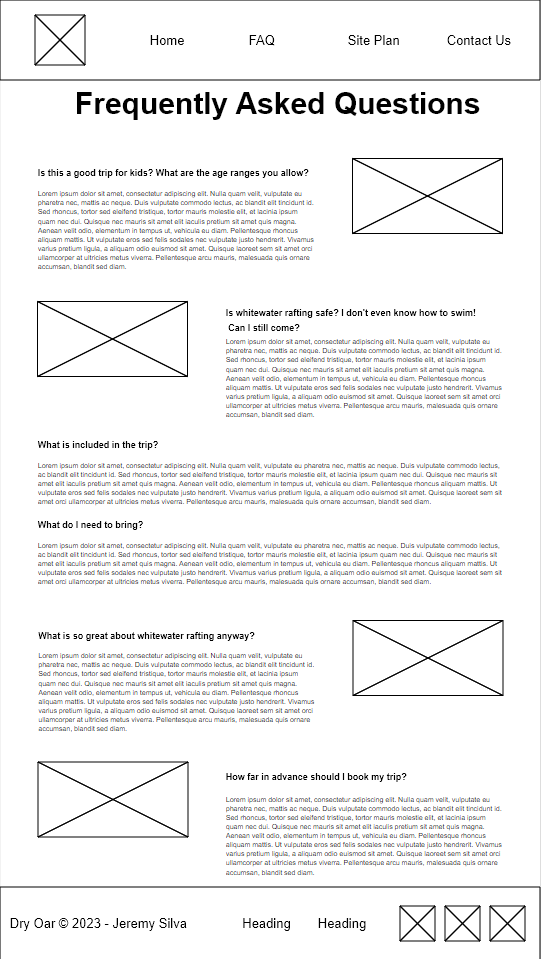
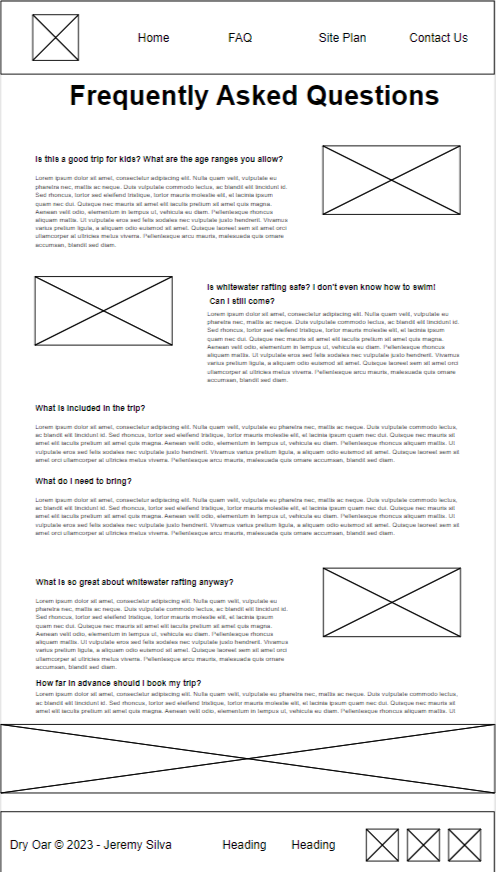
faq page added

diff --git a/wwr/faq.html b/wwr/faq.html
@@ -1,0 +1,94 @@
+<!DOCTYPE html>
+<html lang="en">
+<head>
+    <meta charset="UTF-8">
+    <meta http-equiv="X-UA-Compatible" content="IE=edge">
+    <meta name="viewport" content="width=device-width, initial-scale=1.0">
+    <title>Whitewater Rafting Vacations | Dry Oar Boating | Frequently Asked Questions</title>
+    <link rel="stylesheet" href="styles/styles.css">
+</head>
+<body>
+    <div id="content">
+        <header class="faqheader">
+            <a id="logo-link" href="index.html">
+                <img class="logo" src="images/dryoarlogo.png" alt="Dry Oar Logo">
+            </a>
+            <nav>
+                <a href="index.html">Home</a>
+                <a href="faq.html">FAQ</a>
+                <a href="site-plan-rafting.html">Site Plan</a>
+                <a href="contactus.html">Contact us</a>
+            </nav>
+        </header>
+        <main class="faq">
+            <h1 id="faqtitle">Frequently Asked Questions</h1>
+            <div class="questions"> 
+                <div class="q1">
+                    <h2>Is this a good trip for kids? What are the age ranges you allow?</h2>
+                </div>
+                <div class="a1">
+                    <p>Absolutely this is a good trip for children of all ages. We have found however that children over the age of 8 seem to enjoy it more overall (And parents especially enjoy it more if their children are all over 8). A common concern we get from parents is that their children will be bored stuck on a boat for hours at a time. Surprisingly we deal with very few bored children of any age. The areas we are rafting through are some of the most beautiful in the world, and you never know what you might see around any corner. Not to mention the rapids which keep things very interesting. Each boat also comes equipped with a guide. It has been proven that river guides are unable to go for very long at all without telling stories...some of which are even true!</p>
+                </div>
+                <div class="p1">
+                    <img src="images/raftingkid.jpg" alt="kid rafting">
+                </div>
+                <div class="q2">
+                    <h2>Is whitewater rafting safe? I don't even know how to swim! Can I still come?</h2>
+                </div>
+                <div class="a2">
+                    <p>As with all adventure sports, there is an inherent and assumed element of risk. To help ensure your safety, our guides are all certified in Wilderness First aid and all start with at least 3 years of rafting experience. The most common injuries are sunburns and injuries that occur on land.<br>Everyone on commercial rafting trips wears coast guard approved life vest or personal flotation device (PFD). Many non swimmers go on rafting trips and have a great time. Your guide will give you an in depth and engaging safety talk before your trip begins explaining what you should prepare for and do in the event that you fall out of the raft.</p>
+                </div>
+                <div class="p2">
+                    <img src="images/equipment.jpg" alt="whitewater rafting equipment">
+                </div>
+                <div class="q3">
+                    <h2>What is included in the trip?</h2>
+                </div>
+                <div class="a3">
+                    <p>We will provide all necessary camping equipment. This includes a sleeping bag, foam pad, waterproof duffle bag, small waterproof day bag, tent and a cot, eating utensils and camping chair.<br>We provided water and lemonade during the day. Coffee, tea and hot chocolate are provided during the morning and evening hours. You may bring beer, liquor and soft drinks (in reasonable amounts, 2 cans per day). You may purchase these items either the night before the trip, or on your way to the put-in. 3 meals per day, plus snacks</p>    
+                </div>
+                <div class="q4">
+                    <h2>What do I need to bring?</h2>
+                </div>
+                <div class="a4">
+                    <p>The most effective way to plan for temperature and weather changes in the Canyon is to be prepared for both hot & dry and cold & wet Rain jacket and rain pants- do not bring ponchos Quick dry shirts and shorts long sleeve cotton shirt and pants- helps keep you cooler on hot days. Button down shirts provide more sun protection on the neck Light Weight Cotton Pant, Nylon Pant or Sarong the best thing for men to wear are swim trunks as shorts if you are cold natured, bring polypropylene long underwear top and bottom Women wear swim suits or quick dry underwear and sport bras as a base layer during the day. Over the base layer, wear a pair of quick dry shorts and the shirt of your choice (polypropylene if you are cold, cotton if you are hot). Two piece swim suits are convenient when changing or going to the bathroom. hat- large brim hat offers protection from the sun with a good quality strap. Sunglasses with strap socks- used for hiking and to protect your feet from the sun. sandals or water shoes- if not used to hiking in these, bring a pair of shoes you have hiked in before camper wear: Bring something comfortable to wear around camp. Cotton dresses, skirts and sarongs are all popular options. Sleep wear: You might choose to sleep in your camp wear. Otherwise, you might like to bring something comfortable to sleep in. water bottle small day pack for hikes moisturizing lotion headlamp or flashlight moleskin waterproof sunscreen and lip balm optional items: gloves fleece jacket towel bandana small pillow hygiene products: toothpaste, toothbrush, tissue, nail clippers, feminine hygiene products, extra eyeglasses or contacts, biodegradable soap and shampoo camera equipment book, watercolors, journal and pen</p>
+                </div>
+                <div class="q5">
+                    <h2>What is so great about whitewater rafting anyway?</h2>
+                </div>
+                <div class="a5">
+                    <p>Are you kidding me! What's not great about whitewater rafting!...Let's describe a common day on the river.<br>Arise in the soft light of the early morning after a night spent sleeping under a beautiful starry sky. Have a hearty warm breakfast of fresh blueberry pancakes or omelets to order, then pack your things and prepare for the day. The day is filled with some combination of swift water, rapids, calms, hikes, history, geology, stories, and more good food. We try to hit camp around 4 or 5, after setting up your cot you can relax with a good book or good company by the river, or explore around camp while your guides prepare your dinner...something perhaps like steak and potatoes, or grilled salmon...and dutch oven brownies...you won't forget the dutch oven brownies. After dinner it's more relaxing, and you might even be able to talk your guide into another story or two to send you off to bed under more stars than you thought were possible.</p>
+                </div>
+                <div class="p5">
+                    <img src="images/raftingclearwater.jpg" alt="whitewater rafting group">
+                </div>
+                <div class="q6">
+                    <h2>How far in advance should I book my trip?</h2>
+                </div>
+                <div class="a6">
+                    <p>If you have specific dates you need, we recommend booking a year in advance. If you can be more flexible 6 months in advance is usually sufficient.</p>
+                </div>
+            </div>
+            <div class="p6">
+            <img src="images/raftinglast.jpg" alt="group of people smiling and waving">
+            </div>
+        </main>
+        <footer>
+            <p>Dry Oar &copy; 2023 - Jeremy Silva</p>
+            <p><a href="site-plan-rafting.html">Site plan</a></p>
+            <p><a href="contactus.html">Contact us</a></p>
+            <div class="social">
+                <a href="https://facebook.com" target="_blank">
+                    <img src="images/facebook.png" alt="fb icon">
+                </a>
+                <a href="https://twitter.com" target="_blank">
+                    <img src="images/twitter.png" alt="twitter icon">
+                </a>
+                <a href="https://instagram.com" target="_blank">
+                    <img src="images/instagram.png" alt="instagram icon">
+                </a>
+            </div>
+        </footer>
+    </div>
+</body>
+</html>

diff --git a/wwr/styles/styles.css b/wwr/styles/styles.css
@@ -229,4 +229,91 @@ footer .social img {
     footer {
         margin-top: 25px;
     }
+    .p1, .p2, .p5 {
+        display: none;
+    }
+    .q1, .a1, .q2, .a2, .q3, .a3, .q4, .a4, .q5, .a5, .q6, .a6 {
+        width: 80%;
+        display: block;
+        margin: 0 auto;
+    }
+}
+
+/*FAQ specific css*/
+.faqheader {
+    background-color: rgba(91, 110, 33, 1);
+}
+#faqtitle{
+    text-align: center;
+}
+.questions {
+    display: grid;
+    grid-template-columns: repeat(4, 1fr);
+    gap: 1em;
+}
+.q1 {
+    grid-column: 1/3;
+}
+.a1 {
+    grid-column: 1/3;
+}
+.p1 {
+    grid-column: 3/5;
+    grid-row: 1/3;
+    align-self: top;
+    justify-self: right;
+}
+.p1 img {
+    border: 10px solid rgba(91, 110, 33, 0.85);
+}
+.q2 {
+    grid-column: 3/5;
+}
+.a2 {
+    grid-column: 3/5;
+}
+.p2 {
+    grid-column: 1/3;
+    grid-row: 3/5;
+    justify-self: left;
+}
+.p2 img {
+    border: 10px solid rgba(91, 110, 33, 0.85);
+}
+.q3 {
+    grid-column: 1/5;
+}
+.a3 {
+    grid-column: 1/5;
+}
+.q4 {
+    grid-column: 1/5;
+}
+.a4 {
+    grid-column: 1/5;
+}
+.q5 {
+    grid-column: 1/3;
+}
+.a5 {
+    grid-column: 1/3;
+}
+.p5 {
+    grid-column: 3/5;
+    grid-row: 9/11;
+    justify-self: right;
+}
+.p5 img {
+    border: 10px solid rgba(91, 110, 33, 0.85);
+}
+.q6 {
+    grid-column: 1/5;
+}
+.a6 {
+    grid-column: 1/5;
+}
+.p6 img {
+    box-sizing: border-box;
+    border: 10px solid rgba(91, 110, 33, 0.85);
+    width: 100%
 }

diff --git a/wwr/index.html b/wwr/index.html
@@ -15,7 +15,7 @@
             </a>
             <nav>
                 <a href="index.html">Home</a>
-                <a href="#">Page 2</a>
+                <a href="faq.html">FAQ</a>
                 <a href="site-plan-rafting.html">Site Plan</a>
                 <a href="contactus.html">Contact us</a>
             </nav>
